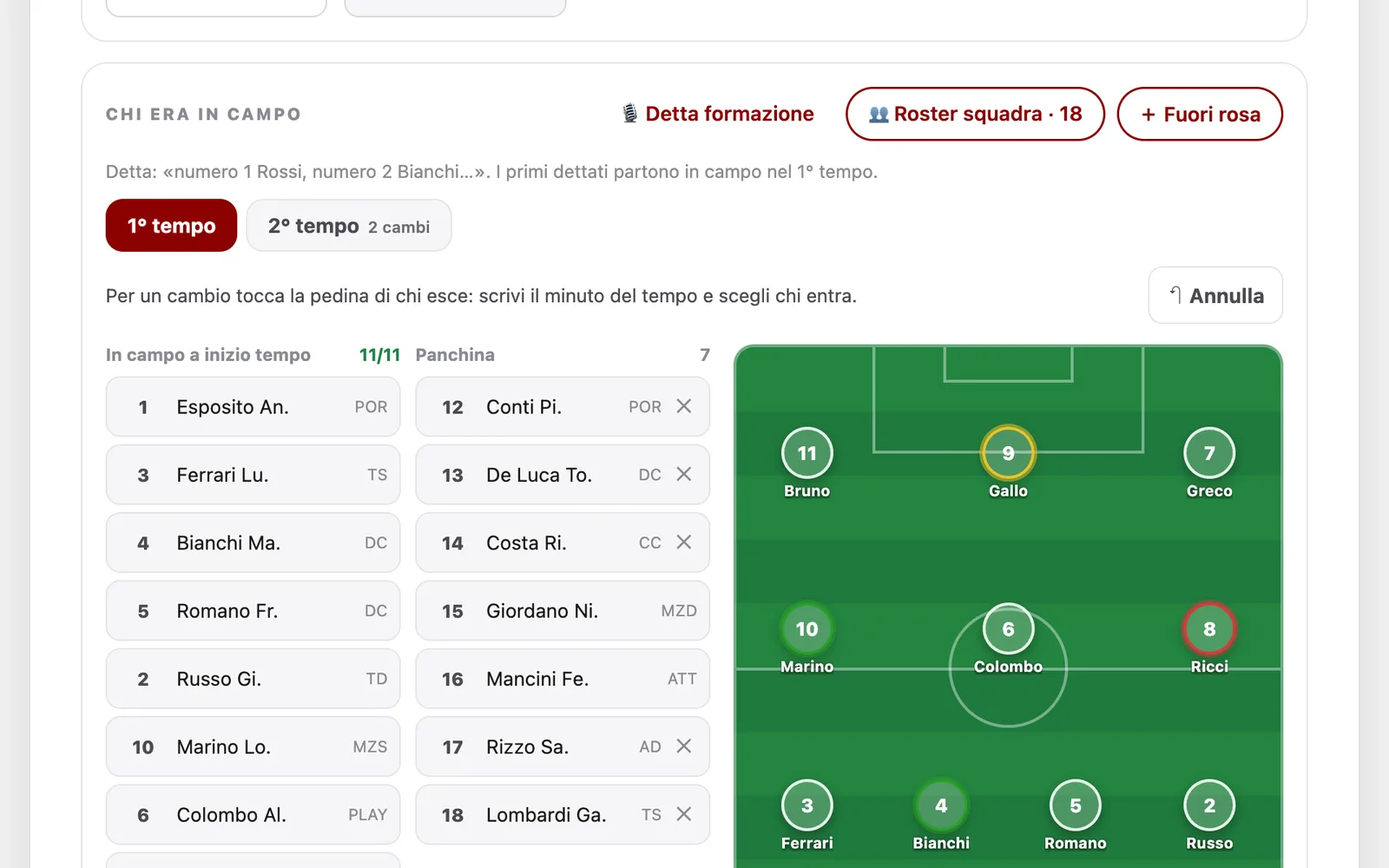
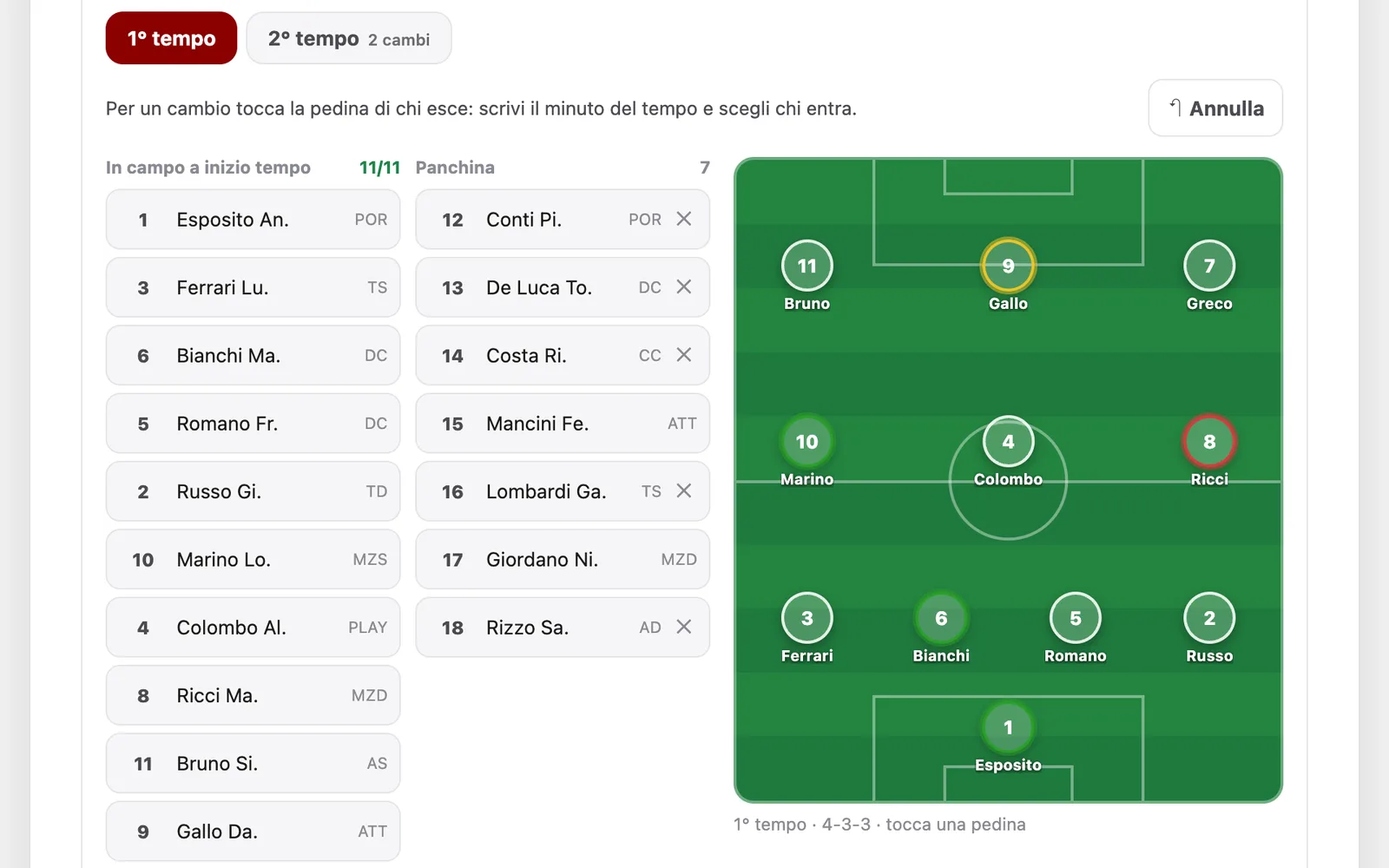
Report: si lavora solo dalle pedine (elenchi da leggere, posto vuoto → scegli il giocatore, «Togli dal campo» nel popup); numero di maglia dalla posizione con numerazione classica, panchina 12 al secondo portiere poi 13, 14… modificabili; quaderno «?» aggiornato

diff --git a/guida/guida.js b/guida/guida.js
@@ -7,7 +7,7 @@
   if (!me) return;
   var app = me.getAttribute('data-app');
   var base = new URL('.', me.src).href;
-  var BOOKS = {"lavagna": [{"img": "img/lav-1.webp", "t": "Imposta la seduta", "d": "Data, categoria, numero della seduta, durata, obiettivo e materiale: li scrivi una volta in alto e finiscono nell’intestazione del PDF.", "hl": {"x": 0.0427, "y": 0.329, "w": 0.9146, "h": 0.1876}}, {"img": "img/lav-2.webp", "t": "Trascina giocatori e attrezzi", "d": "Pedine colorate, giocatori di fronte, di spalle e in corsa, coni, porte, scale e ostacoli: li trascini sul campo, li ruoti e li ridimensioni. La maglia dei giocatori cambia colore con un tocco.", "hl": {"x": 0.0427, "y": 0.128, "w": 0.1106, "h": 0.8831}}, {"img": "img/lav-3.webp", "t": "Disegna i movimenti", "d": "Scegli passaggio, corsa, conduzione o tiro e tira la freccia sul campo: con le maniglie la allunghi o la curvi. Linee e zone servono a delimitare gli spazi.", "hl": {"x": 0.0427, "y": 0.0107, "w": 0.9146, "h": 0.1173}}, {"img": "img/lav-4.webp", "t": "Esercizio solo testo", "d": "Se vai di fretta scrivi l’esercizio a parole, con durata e materiale. Nel PDF esce come riquadro di testo al posto del campo.", "hl": {"x": 0.1683, "y": 0.1608, "w": 0.7889, "h": 0.5407}}, {"img": "img/lav-5.webp", "t": "Salva e stampa", "d": "Salva la seduta come file sul dispositivo e riaprila quando vuoi. Con Stampa / PDF ottieni la seduta pronta da stampare o da inviare.", "hl": {"x": 0.6458, "y": 0.2265, "w": 0.3115, "h": 0.0529}}, {"img": "img/lav-6.webp", "t": "Logo, firma e colori", "d": "Dal menu ☰ carichi il logo della squadra, aggiungi la tua firma e scegli il colore: valgono per tutte le app della suite.", "hl": {"x": 0.7563, "y": 0.1541, "w": 0.201, "h": 0.4201}}], "posizionamenti": [{"img": "img/pos-1.webp", "t": "Dati della gara", "d": "Avversario, data, tipo di gara, sede e modulo. In alto scegli calcio a 11 o a 9: ognuno ha le sue tabelle.", "hl": {"x": 0.0243, "y": 0.2117, "w": 0.9514, "h": 0.209}}, {"img": "img/pos-2.webp", "t": "Formazione", "d": "Titolari e panchina con i numeri di maglia. Con il roster della squadra scegli i nomi da un elenco e il numero si mette da solo.", "hl": {"x": 0.0243, "y": 0.0188, "w": 0.3138, "h": 0.9812}}, {"img": "img/pos-3.webp", "t": "Tabelle a misura tua", "d": "Rinomini titoli e voci, aggiungi righe con ＋ e con ↕ Sposta le metti dove servono. Le tabelle che non usi si nascondono.", "hl": {"x": 0.3431, "y": 0.0322, "w": 0.3138, "h": 0.6742}}, {"img": "img/pos-4.webp", "t": "Lo schieramento in campo", "d": "I giocatori della formazione compaiono sul campo secondo il modulo: li trascini dove vuoi e aggiungi frecce.", "hl": {"x": 0.0846, "y": 0.0858, "w": 0.8308, "h": 0.8993}}, {"img": "img/pos-5.webp", "t": "Gli schemi delle palle inattive", "d": "Corner e punizioni si disegnano da soli con i nomi delle tabelle. Sposti le pedine, aggiungi note e frecce.", "hl": {"x": 0.0762, "y": 0.0189, "w": 0.8476, "h": 0.8126}}, {"img": "img/pos-6.webp", "t": "PDF per lo spogliatoio", "d": "Nell’anteprima scegli le pagine da salvare: la scheda, lo schieramento e uno schema per pagina.", "hl": {"x": 0, "y": 0.0844, "w": 1, "h": 0.1688}}], "report": [{"img": "img/rep-1.webp", "t": "Dati della gara", "d": "Data, avversario, tipo di gara, sede e gol. Scegli il formato (a 11, 9, 7 o 5), il modulo e quanti tempi da quanti minuti: il totale si calcola da solo.", "hl": {"x": 0.0521, "y": 0.0033, "w": 0.8958, "h": 0.4642}}, {"img": "img/rep-2.webp", "t": "Chi era in campo", "d": "La rosa del Roster entra già tra i convocati. In ogni tempo tocchi i giocatori in panchina per metterli in campo. Con Detta formazione li dici a voce, con Fuori rosa aggiungi chi non è in rosa.", "hl": {"x": 0.0698, "y": 0.09, "w": 0.8604, "h": 0.91}}, {"img": "img/rep-3.webp", "t": "Il cambio sulla pedina", "d": "Tocchi la pedina di chi esce, scrivi il minuto del tempo e scegli chi entra: i minuti si calcolano da soli (45' + 30' = 75'). Puoi anche trascinare sulla pedina un giocatore della panchina. ↶ Annulla toglie l’ultimo cambio.", "hl": {"x": 0.5219, "y": 0.171, "w": 0.4083, "h": 0.7651}}, {"img": "img/rep-4.webp", "t": "La pagella", "d": "Solo chi ha giocato, con i minuti di ogni tempo. Per ognuno il ruolo nella partita, il voto a pallino (verde, giallo, rosso) e una nota.", "hl": {"x": 0.0698, "y": 0.0669, "w": 0.8604, "h": 0.9331}}, {"img": "img/rep-5.webp", "t": "Marcatori, note e file", "d": "Marcatori, assist e gol subiti dai portieri, poi le note sulla gara. Salvi la partita come file sul dispositivo e la riapri quando vuoi.", "hl": {"x": 0.0521, "y": 0.0396, "w": 0.8958, "h": 0.6458}}, {"img": "img/rep-6.webp", "t": "Il PDF della gara", "d": "Nell’anteprima vedi il report con risultato, formazione iniziale, cambi, marcatori e la tabella dei minuti per tempo. Con Conferma e salva hai il PDF con logo e colori del club.", "hl": {"x": 0.0802, "y": 0.1383, "w": 0.8396, "h": 0.8617}}], "match": [{"img": "img/mat-1.webp", "t": "Squadre e data", "d": "Scrivi le squadre, la data e il risultato: finiscono nel report e nello storico.", "hl": {"x": 0.0595, "y": 0.2184, "w": 0.8811, "h": 0.075}}, {"img": "img/mat-2.webp", "t": "Quattro modi di lavorare", "d": "Modalità video per registrare dal filmato, Live in tribuna durante la partita, Analisi video per rivedere, Storico per confrontare le partite.", "hl": {"x": 0.0419, "y": 0.327, "w": 0.9162, "h": 0.0737}}, {"img": "img/mat-3.webp", "t": "Il campo a zone", "d": "Tocchi una delle 16 zone del campo e scegli l’evento dalla lista, compresi quelli che aggiungi tu. Ogni evento ha il suo minuto.", "hl": {"x": 0.5025, "y": 0.272, "w": 0.4548, "h": 0.4769}}, {"img": "img/mat-4.webp", "t": "Analisi video", "d": "Rivedi il video con zoom fermo, laser e testi che compaiono a tempo, e tagli le clip delle azioni con i testi compresi.", "hl": {"x": 0.4504, "y": 0.0322, "w": 0.1785, "h": 0.0549}}, {"img": "img/mat-5.webp", "t": "Salva e PDF", "d": "A fine partita salvi il file sul dispositivo o il PDF del report con le statistiche.", "hl": {"x": 0.0419, "y": 0.3938, "w": 0.9162, "h": 0.1085}}], "postura": [{"img": "img/pst-1.webp", "t": "Tre foto", "d": "Carichi una foto di fronte, una di spalle e una di lato. L’app trova i punti del corpo sul dispositivo: le foto non vengono inviate a nessuno.", "hl": {"x": 0.0084, "y": 0.005, "w": 0.9832, "h": 0.7652}}, {"img": "img/pst-2.webp", "t": "Scheletro e angoli", "d": "Con gli interruttori mostri o nascondi scheletro e angoli; con Zoom atleta ingrandisci la persona.", "hl": {"x": 0.0209, "y": 0.1933, "w": 0.9581, "h": 0.0616}}, {"img": "img/pst-3.webp", "t": "Valori di riferimento e report", "d": "I colori confrontano le misure con valori di riferimento per la persona in piedi. Sotto scrivi le tue conclusioni.", "hl": {"x": 0.0084, "y": 0.604, "w": 0.9832, "h": 0.2767}}, {"img": "img/pst-4.webp", "t": "Salva e PDF", "d": "Nome dell’atleta e data, poi salvi il file o crei il PDF. Strumento per l’allenamento, non una valutazione medica.", "hl": {"x": 0.0209, "y": 0.2764, "w": 0.9581, "h": 0.0704}}], "movimento": [{"img": "img/mov-1.webp", "t": "Carica il gesto", "d": "Carichi un video o una foto e scegli cosa misurare: tutto, gambe, busto o nessun segno sul corpo. C’è anche il cronometro al millesimo.", "hl": {"x": 0.0209, "y": 0.0251, "w": 0.66, "h": 0.134}}, {"img": "img/mov-2.webp", "t": "Fotogramma per fotogramma", "d": "Fermi il video, vai avanti e indietro di un fotogramma e vedi scheletro e angoli nel punto esatto del gesto.", "hl": {"x": 0.0209, "y": 0.1591, "w": 0.66, "h": 0.6968}}, {"img": "img/mov-3.webp", "t": "Misure e fotogrammi per il PDF", "d": "A destra leggi gli angoli del fotogramma; con Aggiungi al PDF metti da parte i momenti chiave, con Foto PNG li salvi come immagini.", "hl": {"x": 0.6968, "y": 0.005, "w": 0.2948, "h": 0.3288}}, {"img": "img/mov-4.webp", "t": "Report e PDF", "d": "Scrivi le conclusioni sul gesto e crei il PDF con i fotogrammi scelti. Strumento per l’allenamento, non una valutazione medica.", "hl": {"x": 0.0209, "y": 0.2764, "w": 0.9581, "h": 0.0704}}]};
+  var BOOKS = {"lavagna": [{"img": "img/lav-1.webp", "t": "Imposta la seduta", "d": "Data, categoria, numero della seduta, durata, obiettivo e materiale: li scrivi una volta in alto e finiscono nell’intestazione del PDF.", "hl": {"x": 0.0427, "y": 0.329, "w": 0.9146, "h": 0.1876}}, {"img": "img/lav-2.webp", "t": "Trascina giocatori e attrezzi", "d": "Pedine colorate, giocatori di fronte, di spalle e in corsa, coni, porte, scale e ostacoli: li trascini sul campo, li ruoti e li ridimensioni. La maglia dei giocatori cambia colore con un tocco.", "hl": {"x": 0.0427, "y": 0.128, "w": 0.1106, "h": 0.8831}}, {"img": "img/lav-3.webp", "t": "Disegna i movimenti", "d": "Scegli passaggio, corsa, conduzione o tiro e tira la freccia sul campo: con le maniglie la allunghi o la curvi. Linee e zone servono a delimitare gli spazi.", "hl": {"x": 0.0427, "y": 0.0107, "w": 0.9146, "h": 0.1173}}, {"img": "img/lav-4.webp", "t": "Esercizio solo testo", "d": "Se vai di fretta scrivi l’esercizio a parole, con durata e materiale. Nel PDF esce come riquadro di testo al posto del campo.", "hl": {"x": 0.1683, "y": 0.1608, "w": 0.7889, "h": 0.5407}}, {"img": "img/lav-5.webp", "t": "Salva e stampa", "d": "Salva la seduta come file sul dispositivo e riaprila quando vuoi. Con Stampa / PDF ottieni la seduta pronta da stampare o da inviare.", "hl": {"x": 0.6458, "y": 0.2265, "w": 0.3115, "h": 0.0529}}, {"img": "img/lav-6.webp", "t": "Logo, firma e colori", "d": "Dal menu ☰ carichi il logo della squadra, aggiungi la tua firma e scegli il colore: valgono per tutte le app della suite.", "hl": {"x": 0.7563, "y": 0.1541, "w": 0.201, "h": 0.4201}}], "posizionamenti": [{"img": "img/pos-1.webp", "t": "Dati della gara", "d": "Avversario, data, tipo di gara, sede e modulo. In alto scegli calcio a 11 o a 9: ognuno ha le sue tabelle.", "hl": {"x": 0.0243, "y": 0.2117, "w": 0.9514, "h": 0.209}}, {"img": "img/pos-2.webp", "t": "Formazione", "d": "Titolari e panchina con i numeri di maglia. Con il roster della squadra scegli i nomi da un elenco e il numero si mette da solo.", "hl": {"x": 0.0243, "y": 0.0188, "w": 0.3138, "h": 0.9812}}, {"img": "img/pos-3.webp", "t": "Tabelle a misura tua", "d": "Rinomini titoli e voci, aggiungi righe con ＋ e con ↕ Sposta le metti dove servono. Le tabelle che non usi si nascondono.", "hl": {"x": 0.3431, "y": 0.0322, "w": 0.3138, "h": 0.6742}}, {"img": "img/pos-4.webp", "t": "Lo schieramento in campo", "d": "I giocatori della formazione compaiono sul campo secondo il modulo: li trascini dove vuoi e aggiungi frecce.", "hl": {"x": 0.0846, "y": 0.0858, "w": 0.8308, "h": 0.8993}}, {"img": "img/pos-5.webp", "t": "Gli schemi delle palle inattive", "d": "Corner e punizioni si disegnano da soli con i nomi delle tabelle. Sposti le pedine, aggiungi note e frecce.", "hl": {"x": 0.0762, "y": 0.0189, "w": 0.8476, "h": 0.8126}}, {"img": "img/pos-6.webp", "t": "PDF per lo spogliatoio", "d": "Nell’anteprima scegli le pagine da salvare: la scheda, lo schieramento e uno schema per pagina.", "hl": {"x": 0, "y": 0.0844, "w": 1, "h": 0.1688}}], "report": [{"img": "img/rep-1.webp", "t": "Dati della gara", "d": "Data, avversario, tipo di gara, sede e gol. Scegli il formato (a 11, 9, 7 o 5), il modulo e quanti tempi da quanti minuti: il totale si calcola da solo.", "hl": {"x": 0.0521, "y": 0.0033, "w": 0.8958, "h": 0.4642}}, {"img": "img/rep-2.webp", "t": "Chi era in campo", "d": "Tocchi un posto vuoto (+) sul campo e scegli il giocatore: il numero di maglia viene dalla posizione. In panchina il secondo portiere prende il 12, gli altri 13, 14… e puoi cambiarli toccando il numero.", "hl": {"x": 0.0698, "y": 0.171, "w": 0.8604, "h": 0.829}}, {"img": "img/rep-3.webp", "t": "Il cambio sulla pedina", "d": "Tocchi la pedina di chi esce, scrivi il minuto del tempo e scegli chi entra: i minuti si calcolano da soli (45' + 30' = 75'). Con «Togli dal campo» lasci il posto vuoto, ↶ Annulla toglie l’ultimo cambio.", "hl": {"x": 0.5219, "y": 0.171, "w": 0.4083, "h": 0.7651}}, {"img": "img/rep-4.webp", "t": "La pagella", "d": "Solo chi ha giocato, con i minuti di ogni tempo. Per ognuno il ruolo nella partita, il voto a pallino (verde, giallo, rosso) e una nota.", "hl": {"x": 0.0698, "y": 0.0669, "w": 0.8604, "h": 0.9331}}, {"img": "img/rep-5.webp", "t": "Marcatori, note e file", "d": "Marcatori, assist e gol subiti dai portieri, poi le note sulla gara. Salvi la partita come file sul dispositivo e la riapri quando vuoi.", "hl": {"x": 0.0521, "y": 0.0396, "w": 0.8958, "h": 0.6458}}, {"img": "img/rep-6.webp", "t": "Il PDF della gara", "d": "Nell’anteprima vedi il report con risultato, formazione iniziale, cambi, marcatori e la tabella dei minuti per tempo. Con Conferma e salva hai il PDF con logo e colori del club.", "hl": {"x": 0.0802, "y": 0.1383, "w": 0.8396, "h": 0.8617}}], "match": [{"img": "img/mat-1.webp", "t": "Squadre e data", "d": "Scrivi le squadre, la data e il risultato: finiscono nel report e nello storico.", "hl": {"x": 0.0595, "y": 0.2184, "w": 0.8811, "h": 0.075}}, {"img": "img/mat-2.webp", "t": "Quattro modi di lavorare", "d": "Modalità video per registrare dal filmato, Live in tribuna durante la partita, Analisi video per rivedere, Storico per confrontare le partite.", "hl": {"x": 0.0419, "y": 0.327, "w": 0.9162, "h": 0.0737}}, {"img": "img/mat-3.webp", "t": "Il campo a zone", "d": "Tocchi una delle 16 zone del campo e scegli l’evento dalla lista, compresi quelli che aggiungi tu. Ogni evento ha il suo minuto.", "hl": {"x": 0.5025, "y": 0.272, "w": 0.4548, "h": 0.4769}}, {"img": "img/mat-4.webp", "t": "Analisi video", "d": "Rivedi il video con zoom fermo, laser e testi che compaiono a tempo, e tagli le clip delle azioni con i testi compresi.", "hl": {"x": 0.4504, "y": 0.0322, "w": 0.1785, "h": 0.0549}}, {"img": "img/mat-5.webp", "t": "Salva e PDF", "d": "A fine partita salvi il file sul dispositivo o il PDF del report con le statistiche.", "hl": {"x": 0.0419, "y": 0.3938, "w": 0.9162, "h": 0.1085}}], "postura": [{"img": "img/pst-1.webp", "t": "Tre foto", "d": "Carichi una foto di fronte, una di spalle e una di lato. L’app trova i punti del corpo sul dispositivo: le foto non vengono inviate a nessuno.", "hl": {"x": 0.0084, "y": 0.005, "w": 0.9832, "h": 0.7652}}, {"img": "img/pst-2.webp", "t": "Scheletro e angoli", "d": "Con gli interruttori mostri o nascondi scheletro e angoli; con Zoom atleta ingrandisci la persona.", "hl": {"x": 0.0209, "y": 0.1933, "w": 0.9581, "h": 0.0616}}, {"img": "img/pst-3.webp", "t": "Valori di riferimento e report", "d": "I colori confrontano le misure con valori di riferimento per la persona in piedi. Sotto scrivi le tue conclusioni.", "hl": {"x": 0.0084, "y": 0.604, "w": 0.9832, "h": 0.2767}}, {"img": "img/pst-4.webp", "t": "Salva e PDF", "d": "Nome dell’atleta e data, poi salvi il file o crei il PDF. Strumento per l’allenamento, non una valutazione medica.", "hl": {"x": 0.0209, "y": 0.2764, "w": 0.9581, "h": 0.0704}}], "movimento": [{"img": "img/mov-1.webp", "t": "Carica il gesto", "d": "Carichi un video o una foto e scegli cosa misurare: tutto, gambe, busto o nessun segno sul corpo. C’è anche il cronometro al millesimo.", "hl": {"x": 0.0209, "y": 0.0251, "w": 0.66, "h": 0.134}}, {"img": "img/mov-2.webp", "t": "Fotogramma per fotogramma", "d": "Fermi il video, vai avanti e indietro di un fotogramma e vedi scheletro e angoli nel punto esatto del gesto.", "hl": {"x": 0.0209, "y": 0.1591, "w": 0.66, "h": 0.6968}}, {"img": "img/mov-3.webp", "t": "Misure e fotogrammi per il PDF", "d": "A destra leggi gli angoli del fotogramma; con Aggiungi al PDF metti da parte i momenti chiave, con Foto PNG li salvi come immagini.", "hl": {"x": 0.6968, "y": 0.005, "w": 0.2948, "h": 0.3288}}, {"img": "img/mov-4.webp", "t": "Report e PDF", "d": "Scrivi le conclusioni sul gesto e crei il PDF con i fotogrammi scelti. Strumento per l’allenamento, non una valutazione medica.", "hl": {"x": 0.0209, "y": 0.2764, "w": 0.9581, "h": 0.0704}}]};
   var NAMES = { lavagna: 'Lavagna', posizionamenti: 'Posizionamenti', report: 'Report', match: 'Match', postura: 'Postura', movimento: 'Movimento' };
   var NOTES = { match: 'Video e dati di esempio.', postura: 'Schermate dell’app senza foto di esempio.', movimento: 'Schermate dell’app senza video di esempio.' };
   var pages = BOOKS[app];

diff --git a/report/index.html b/report/index.html
@@ -984,6 +984,7 @@
         .pr { display: flex; align-items: center; gap: 6px; padding: 5px 8px; border-radius: 10px; cursor: pointer; font-size: 13.5px;
             min-height: 42px; margin-bottom: 5px; background: var(--bg1); border: 1px solid var(--line); user-select: none; -webkit-user-select: none; }
         .pr:hover { border-color: rgba(var(--accent-rgb), .45); }
+        .pr.pr-fisso { cursor: default; } .pr.pr-fisso:hover { border-color: var(--line); }
         .pr.libero { border-style: dashed; }
         .pr-num { width: 34px; padding: 4px 2px; text-align: center; font-weight: 800; font-size: 12.5px; color: var(--t2);
             background: transparent; border: 1px dashed transparent; border-radius: 7px; flex-shrink: 0; font-family: inherit; }
@@ -1061,6 +1062,7 @@
         .fg-voto .dot { width: 26px; height: 26px; }
         .fg-ok { display: flex; align-items: center; justify-content: space-between; gap: 8px; margin: 0 14px 8px; font-size: 14px; }
         .fg-ok button { border: 0; border-radius: 10px; padding: 10px 14px; background: var(--accent); color: #fff; font: inherit; font-weight: 800; cursor: pointer; }
+        .fg-via { float: right; border: 0; background: none; color: var(--accent); font: inherit; font-size: 12px; font-weight: 700; text-transform: none; letter-spacing: 0; cursor: pointer; padding: 0; }
         .fg-tl { padding: 2px 14px 6px; font-size: 11px; font-weight: 800; letter-spacing: 1.3px; text-transform: uppercase; color: var(--t3); }
         .fg-l button { display: flex; align-items: center; gap: 10px; width: 100%; text-align: left; border: 0; background: var(--bg1); font: inherit; font-size: 14.5px;
             padding: 11px 12px; border-radius: 11px; margin-bottom: 5px; cursor: pointer; min-height: 46px; color: #1a1a1a; }
@@ -2280,7 +2282,7 @@ window.SuiteFile = (function () {
                             cambi: Array.isArray(p.cambi) ? p.cambi.filter(c => c && c.esce && c.entra).map(c => ({ min: +c.min || 0, esce: c.esce, entra: c.entra })) : [] }; }),
                     pos: Array.from({ length: 4 }, (_, j) => (t.pos && t.pos[j] && typeof t.pos[j] === 'object') ? t.pos[j] : {}) };
                 s.players = (Array.isArray(s.players) ? s.players : []).filter(p => p && p.uid).map(p => ({
-                    uid: p.uid, num: String(p.num || ''), name: String(p.name || ''), role: String(p.role || ''), guest: !!p.guest,
+                    uid: p.uid, num: String(p.num || ''), numMano: !!p.numMano, name: String(p.name || ''), role: String(p.role || ''), guest: !!p.guest,
                     rating: +p.rating || 0, note: String(p.note || ''), minutes: +p.minutes || 0, starter: !!p.starter }));
                 ['scorers', 'assists', 'gks'].forEach(k => { s[k] = (Array.isArray(s[k]) ? s[k] : []).map(x => ({ uid: x.uid || '', n: x.n == null ? 1 : +x.n || 0 })); });
                 return s;
@@ -2501,7 +2503,7 @@ window.SuiteFile = (function () {
             function rigaGiocatore(r, dove, cambi, usati) {
                 const usc = cambi.find(c => c.esce === r.uid), ent = cambi.find(c => c.entra === r.uid);
                 const togli = dove === 'panca' && !usati.has(r.uid);
-                return `<div class="pr${sel && sel.uid === r.uid ? ' sel' : ''}" data-act="tocca" data-uid="${r.uid}" data-campo="${dove === 'campo' ? 1 : ''}" role="button" tabindex="0">
+                return `<div class="pr pr-fisso" data-uid="${r.uid}">
                     <input class="pr-num" data-num="${r.uid}" value="${esc(r.num)}" inputmode="numeric" maxlength="3" placeholder="#" title="Numero di maglia in questa partita" />
                     <span class="pr-nome" title="${esc(r.name)}">${esc(nomePdf(r.name))}</span>
                     ${r.guest ? '<span class="badge-fr">FUORI ROSA</span>' : ''}
@@ -2546,7 +2548,7 @@ window.SuiteFile = (function () {
                 // riga d'aiuto + Annulla (i cambi si fanno toccando le pedine)
                 const nomeSel = sel ? esc(pl(sel.uid).name) : '';
                 $('minBar').innerHTML = `<div class="mb-hint">${sel ? (sel.dove === 'campo' ? `Esce <b>${nomeSel}</b> dall'inizio del tempo: ora tocca chi entra.` : `Entra <b>${nomeSel}</b>: ora tocca la pedina di chi esce.`)
-                        : presenti.length < tit ? 'Tocca i giocatori in panchina per metterli in campo a inizio tempo.'
+                        : presenti.length < tit ? 'Tocca un posto vuoto (+) sul campo e scegli il giocatore: il numero di maglia si mette da solo.'
                         : 'Per un cambio tocca la pedina di chi esce: scrivi il minuto del tempo e scegli chi entra.'}</div>
                     <button type="button" class="mb-undo" data-act="annulla"${storia.length ? '' : ' disabled'}>↶ Annulla</button>`;
 
@@ -2626,25 +2628,23 @@ window.SuiteFile = (function () {
                         <div class="fg-calc" id="fgCalc">${isNaN(mm) ? 'Scrivi il minuto: i minuti giocati si calcolano da soli.' : mm >= t.durata ? `Il tempo dura ${t.durata}'.` : `${esc(esce.name)}: ${contoUscita(esce.uid, mm)}`}</div>
                         <div class="fg-voto"><span>Voto</span>${[1, 2, 3].map(n => `<button type="button" class="dot${esce.rating === n ? ' on' : ''}" style="--c:${RCOL[n]}" data-act="voto" data-uid="${esce.uid}" data-v="${n}" title="${RTXT[n]}"></button>`).join('')}</div>
                         ${foglio.entra && pl(foglio.entra) ? `<div class="fg-ok"><span>Entra <b>${esc(pl(foglio.entra).name)}</b></span><button type="button" data-act="fgOk">✓ Fai il cambio</button></div>` : ''}
-                        <div class="fg-tl">${foglio.entra ? 'Oppure scegli un altro' : 'Chi entra'}</div>
+                        <div class="fg-tl">${foglio.entra ? 'Oppure scegli un altro' : 'Chi entra'}${inizio.includes(esce.uid) || cambi.some(c => c.entra === esce.uid) ? `<button type="button" class="fg-via" data-act="fgPanca">Togli dal campo</button>` : ''}</div>
                         <div class="fg-l">${lista.length ? lista.map(r => `<button type="button" data-act="scegli" data-uid="${r.uid}"><b>${esc(r.num || '—')}</b>${esc(r.name)}<small>${usciti.has(r.uid) ? 'già uscito' : r.guest ? 'fuori rosa' : esc(r.role)}</small></button>`).join('')
                             : '<div class="vuoto">Nessuno in panchina.</div>'}</div>
                     </div>`;
                 } else if (foglio) {
                     const lista = tutti.filter(r => !fine.includes(r.uid)).sort(perNumero);
                     html += `<div class="foglio">
-                        <div class="fg-h"><div><b>Chi va in questo posto?</b><small>${k + 1}° tempo · dalla panchina</small></div>
+                        <div class="fg-h"><div><b>Chi va in questo posto?</b><small>${k === 0 && numeriPosti(mod, tit)[foglio.slot] ? `Maglia n° ${numeriPosti(mod, tit)[foglio.slot]} · ` : ''}${k + 1}° tempo · dalla panchina</small></div>
                             <button type="button" class="fg-x" data-act="fgClose" aria-label="Chiudi">✕</button></div>
                         <div class="fg-l">${lista.length ? lista.map(r => `<button type="button" data-act="scegli" data-uid="${r.uid}"><b>${esc(r.num || '—')}</b>${esc(r.name)}<small>${r.guest ? 'fuori rosa' : esc(r.role)}</small></button>`).join('')
                             : '<div class="vuoto">Nessuno in panchina.</div>'}</div>
                     </div>`;
                 }
                 $('pitch').innerHTML = html;
-                const pchip = tutti.filter(r => !fine.includes(r.uid)).sort(perNumero);
-                $('pancaStrip').innerHTML = pchip.length ? `<div class="ps-t">Panchina · tocca o trascina sulla pedina di chi esce</div><div class="ps-l">${pchip.map(r =>
-                    `<button type="button" class="chip${sel && sel.uid === r.uid ? ' sel' : ''}" data-chip="${r.uid}"><b>${esc(r.num || '—')}</b>${esc(nomeCorto(r.name))}</button>`).join('')}</div>` : '';
+                $('pancaStrip').innerHTML = '';
                 const spostate = P.some((_, i) => posizioneTempo(t, k, i));
-                $('pitchFoot').innerHTML = `<span>${k + 1}° tempo · ${mod} · tocca una pedina per il cambio</span>` +
+                $('pitchFoot').innerHTML = `<span>${k + 1}° tempo · ${mod} · tocca una pedina</span>` +
                     (spostate ? '<button type="button" class="btn-mini" data-act="comeModulo">↺ Come il modulo</button>' : '');
             }
 
@@ -2690,7 +2690,47 @@ window.SuiteFile = (function () {
             function renderCount() {
                 $('playerCountLabel').textContent = `${righe().length} convocati · a ${S.formato} · modulo ${modEff()} · ${T().n}×${T().durata}'`;
             }
-            function renderAll() { renderStruttura(); renderCampo(); renderPagella(); renderExtra(); renderCount(); }
+            // numeri classici per posto: portiere 1, difesa (terzini 3 a sinistra e 2 a destra, centrali 6-5-4),
+            // attacco (9, 9-10, 11-9-7), centrocampo (esterni 11 e 7, al centro 4-8-10); per i moduli più usati a 11 una tabella fissa
+            const NUM_CLASSICI = {
+                '4-4-2': [1, 3, 6, 5, 2, 11, 4, 8, 7, 9, 10], '4-3-3': [1, 3, 6, 5, 2, 10, 4, 8, 11, 9, 7],
+                '4-2-3-1': [1, 3, 6, 5, 2, 4, 8, 11, 10, 7, 9], '3-5-2': [1, 6, 5, 4, 3, 10, 8, 7, 2, 9, 11],
+                '5-3-2': [1, 3, 6, 5, 4, 2, 10, 8, 7, 9, 11], '4-1-2-1-2': [1, 3, 6, 5, 2, 4, 8, 7, 10, 9, 11]
+            };
+            function numeriPosti(modulo, n) {
+                if (n === 11 && NUM_CLASSICI[modulo]) return NUM_CLASSICI[modulo];
+                if (n <= 7) return Array.from({ length: n }, (_, i) => i + 1);     // a 7 e a 5: 1, 2, 3… dalla porta all'attacco
+                const linee = modulo.split('-').map(Number), usati = new Set([1]);
+                const prendi = (pref) => { for (const x of pref) if (x <= n && !usati.has(x)) { usati.add(x); return x; }
+                    for (let x = 2; x <= n; x++) if (!usati.has(x)) { usati.add(x); return x; } return null; };
+                const L = linee.map(c => Array(c).fill(null));
+                const d = linee[0];
+                if (d >= 4) { L[0][0] = prendi([3]); L[0][d - 1] = prendi([2]); for (let i = 1; i < d - 1; i++) L[0][i] = prendi([6, 5, 4]); }
+                else for (let i = 0; i < d; i++) L[0][i] = prendi([6, 5, 4, 3, 2]);
+                const a = linee.length - 1, ca = linee[a];
+                if (a > 0) { const pa = ca === 1 ? [9] : ca === 2 ? [9, 10] : [11, 9, 7]; for (let i = 0; i < ca; i++) L[a][i] = prendi([pa[i], 9, 10, 11, 7]); }
+                for (let li = 1; li < a; li++) {
+                    const c = linee[li];
+                    if (c >= 4) { L[li][0] = prendi([11, 3]); L[li][c - 1] = prendi([7, 2]); }
+                    for (let i = 0; i < c; i++) if (L[li][i] == null) L[li][i] = prendi([4, 8, 10, 7, 11, 3, 2, 6, 5]);
+                }
+                return [1, ...L.flat()];
+            }
+            function numeraAuto() {
+                const t = T(), n = S.formato, nums = numeriPosti(modEff(), n), ini = lungo(t.periodi[0].inizio || []);
+                let cambiato = false;
+                const metti = (p, v) => { if (p.num !== v) { p.num = v; cambiato = true; } };
+                const tit = new Set();
+                ini.forEach((u, i) => { const p = u && pl(u); if (!p) return; tit.add(u); if (!p.numMano && nums[i] != null) metti(p, String(nums[i])); });
+                const occupati = new Set(S.players.filter(p => tit.has(p.uid) || p.numMano).map(p => parseInt(p.num, 10)).filter(Boolean));
+                const ORD = { POR: 0, DIF: 1, CEN: 2, ATT: 3 };
+                const panca = S.players.map((p, i) => [p, i]).filter(([p]) => p.name.trim() && !tit.has(p.uid) && !p.numMano)
+                    .sort((x, y) => ((ORD[gruppoRuolo(x[0].role)] ?? 4) - (ORD[gruppoRuolo(y[0].role)] ?? 4)) || x[1] - y[1]).map(x => x[0]);
+                let prossimo = n + 1;      // a 11: 12 al secondo portiere, poi 13, 14…
+                panca.forEach(p => { while (occupati.has(prossimo)) prossimo++; metti(p, String(prossimo)); occupati.add(prossimo); prossimo++; });
+                if (cambiato) autoSave();
+            }
+            function renderAll() { numeraAuto(); renderStruttura(); renderCampo(); renderPagella(); renderExtra(); renderCount(); }
 
             // ═══════════════ EVENTI ═══════════════
             const bindVal = (id, k, ev) => $(id).addEventListener(ev || 'input', () => { S[k] = $(id).value; autoSave(); if (k === 'opponent') renderCount(); });
@@ -2764,6 +2804,7 @@ window.SuiteFile = (function () {
                     case 'panca': aperto = null; inPanchina(uid); break;
                     case 'fgClose': foglio = null; renderCampo(); break;
                     case 'fgOk': if (foglio && foglio.entra) scegli(foglio.entra); break;
+                    case 'fgPanca': { const u = foglio && foglio.uid; foglio = null; if (u) inPanchina(u); else renderCampo(); break; }
                     case 'scegli': scegli(uid); break;
                     case 'comeModulo': T().pos = T().pos.map((p, j) => j < k ? p : {}); autoSave(); renderCampo(); break;
                     case 'exAdd': S[a.dataset.ex].push({ uid: '', n: a.dataset.ex === 'gks' ? 0 : 1 }); autoSave(); renderExtra(); break;
@@ -2777,7 +2818,7 @@ window.SuiteFile = (function () {
             // campi scritti: aggiornano lo stato senza ridisegnare (non si perde il cursore)
             document.getElementById('app').addEventListener('input', (e) => {
                 const el = e.target, d = el.dataset;
-                if (d.num) { el.value = el.value.replace(/\D/g, '').slice(0, 3); pl(d.num).num = el.value; autoSave(); }
+                if (d.num) { el.value = el.value.replace(/\D/g, '').slice(0, 3); pl(d.num).num = el.value; pl(d.num).numMano = !!el.value; autoSave(); }
                 else if (d.note) { pl(d.note).note = el.value; autoSave(); }
                 else if (d.min) { pl(d.min).minutes = parseInt(el.value, 10) || 0; autoSave(); }
                 else if (d.ex && d.f === 'n') { S[d.ex][+d.i].n = parseInt(el.value, 10) || 0; autoSave(); }
@@ -2826,6 +2867,11 @@ window.SuiteFile = (function () {
                 const k = kk(), fs = slotsVisti();
                 if (t0.mosso) {
                     const [x, y] = pct(e.clientX, e.clientY);
+                    const ini0 = lungo(T().periodi[0].inizio || []), ua = fs[t0.i], ub = fs[t0.bers];
+                    if (t0.bers != null && k === 0 && ini0.includes(ua) && ini0.includes(ub)) {
+                        scrivi(p => { const v = lungo(p[0].inizio || []); const a = v.indexOf(ua), b = v.indexOf(ub); v[a] = ub; v[b] = ua; p[0].inizio = v; });
+                        lastTap = Date.now(); return;
+                    }
                     if (t0.bers != null) {
                         const base = postiModulo(modEff()), pa = posizioneTempo(T(), k, t0.i) || base[t0.i], pb = posizioneTempo(T(), k, t0.bers) || base[t0.bers];
                         scriviPos(p => { p[String(t0.i)] = pb; p[String(t0.bers)] = pa; });
